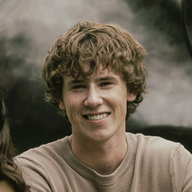
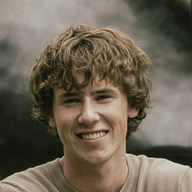
Recrop the profile photo, and stop the headline clipping its descenders
Two separate things.

The photo. Every derivative kept too much background around the head, so the
face sat small in the frame and read as off-centre. Measuring the source showed
the face is only 14px right of the image centre, so the horizontal axis was
close; the real problem was framing. Recropped tight to 454px of the 757px
source, centred on the face, and regenerated everything from it: the footer
avatar, favicon-96x96, favicon.ico at 16/32/48, and apple-touch-icon.

The two web-app-manifest icons get a looser 651px crop on purpose. They are
declared maskable, so Android crops them to its own circle or squircle. Checked
the result under a circular mask and the head survives it.

The headline. .hero h1 .line carries overflow:hidden for the slide-up reveal,
but at line-height 1.06 the box is 78px while Libre Baskerville needs 85px, so
7px of every descender was being sliced. The g in "Everything" and both y's were
losing their tails.

Fixed by padding the clip box and pulling the following line back up, which
leaves the spacing between lines untouched. The reveal's start position moved
from 105% to 120% so the text still sits fully outside the taller box before it
animates, and the last line keeps its padding but drops the negative margin so
it no longer pulls the subheading up. Gap to the subheading is back to 24px at
every width, and all three lines now report zero clipping.

diff --git a/styles.css b/styles.css
@@ -47,8 +47,9 @@ img{max-width:100%;display:block}
 .hero{padding:clamp(28px,6vw,64px) var(--pad-x) clamp(32px,3.4vw,46px)}
 .hero-grid{display:grid;grid-template-columns:minmax(0,1.15fr) minmax(0,.85fr);gap:clamp(28px,5vw,72px);align-items:center}
 .hero h1{font-size:clamp(38px,6vw,74px);line-height:1.06;margin-bottom:var(--sp-5)}
-.hero h1 .line{display:block;overflow:hidden}
-.hero h1 .line>span{display:block;transform:translateY(105%);transition:transform 720ms var(--ease-soft)}
+.hero h1 .line{display:block;overflow:hidden;padding-bottom:.14em;margin-bottom:-.14em}
+.hero h1 .line:last-child{margin-bottom:0}
+.hero h1 .line>span{display:block;transform:translateY(120%);transition:transform 720ms var(--ease-soft)}
 .hero h1.in .line>span{transform:none}
 .hero h1.in .line:nth-child(2)>span{transition-delay:90ms}
 .hero h1.in .line:nth-child(3)>span{transition-delay:180ms}
